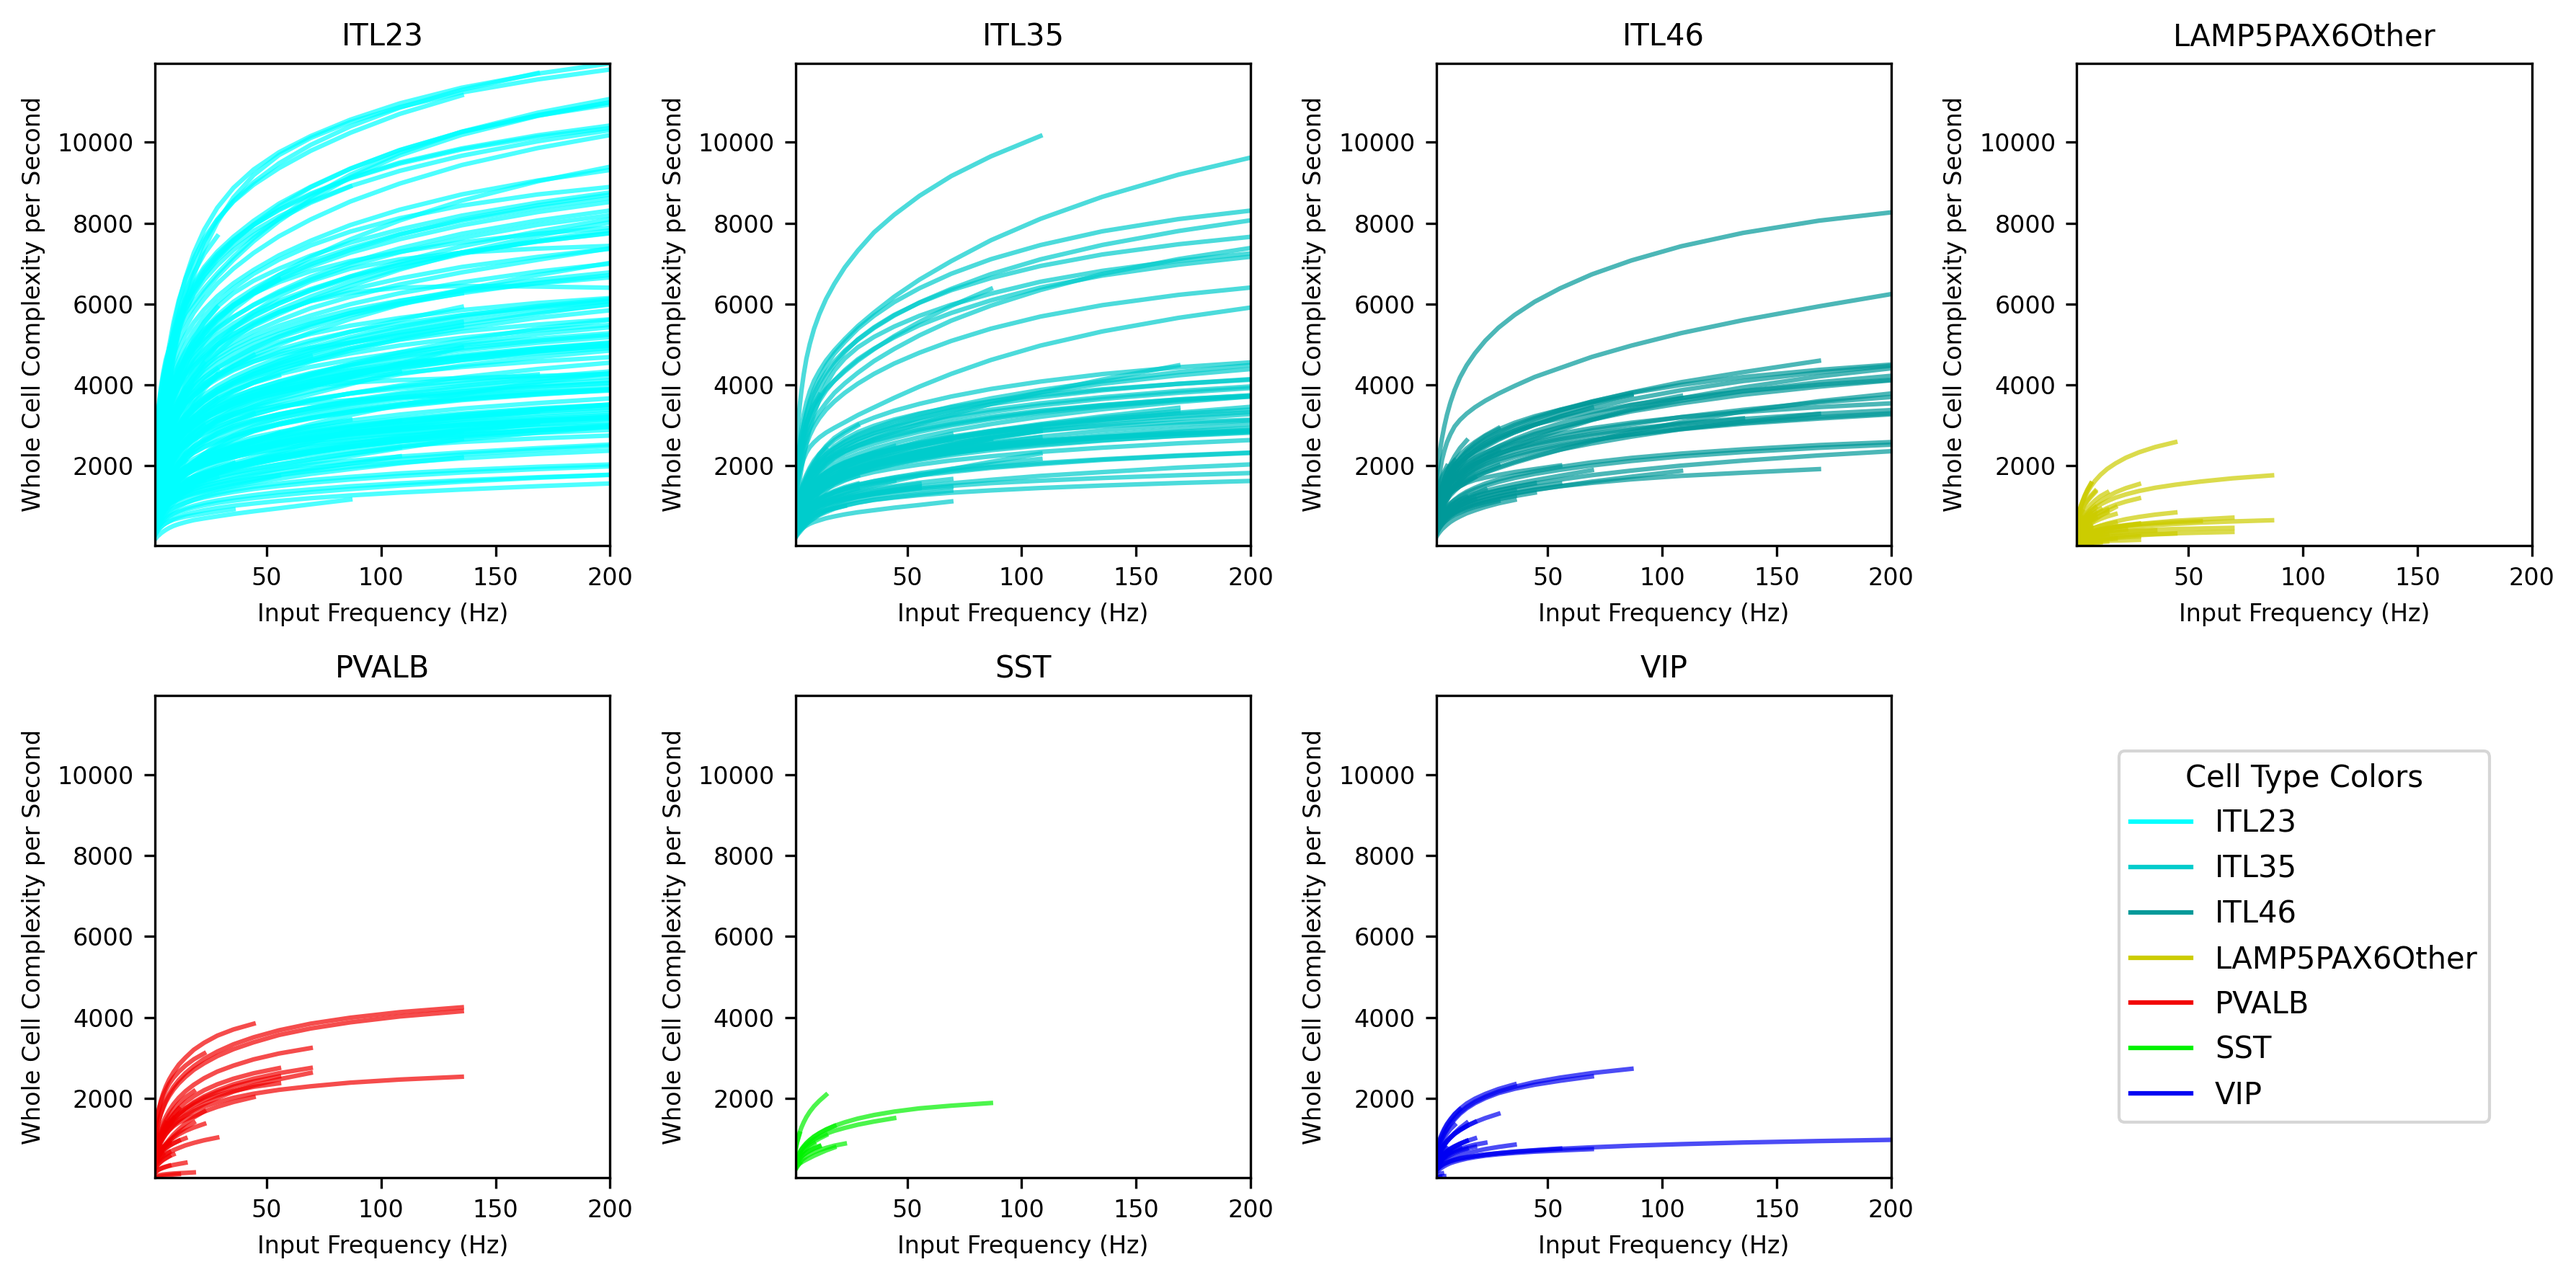
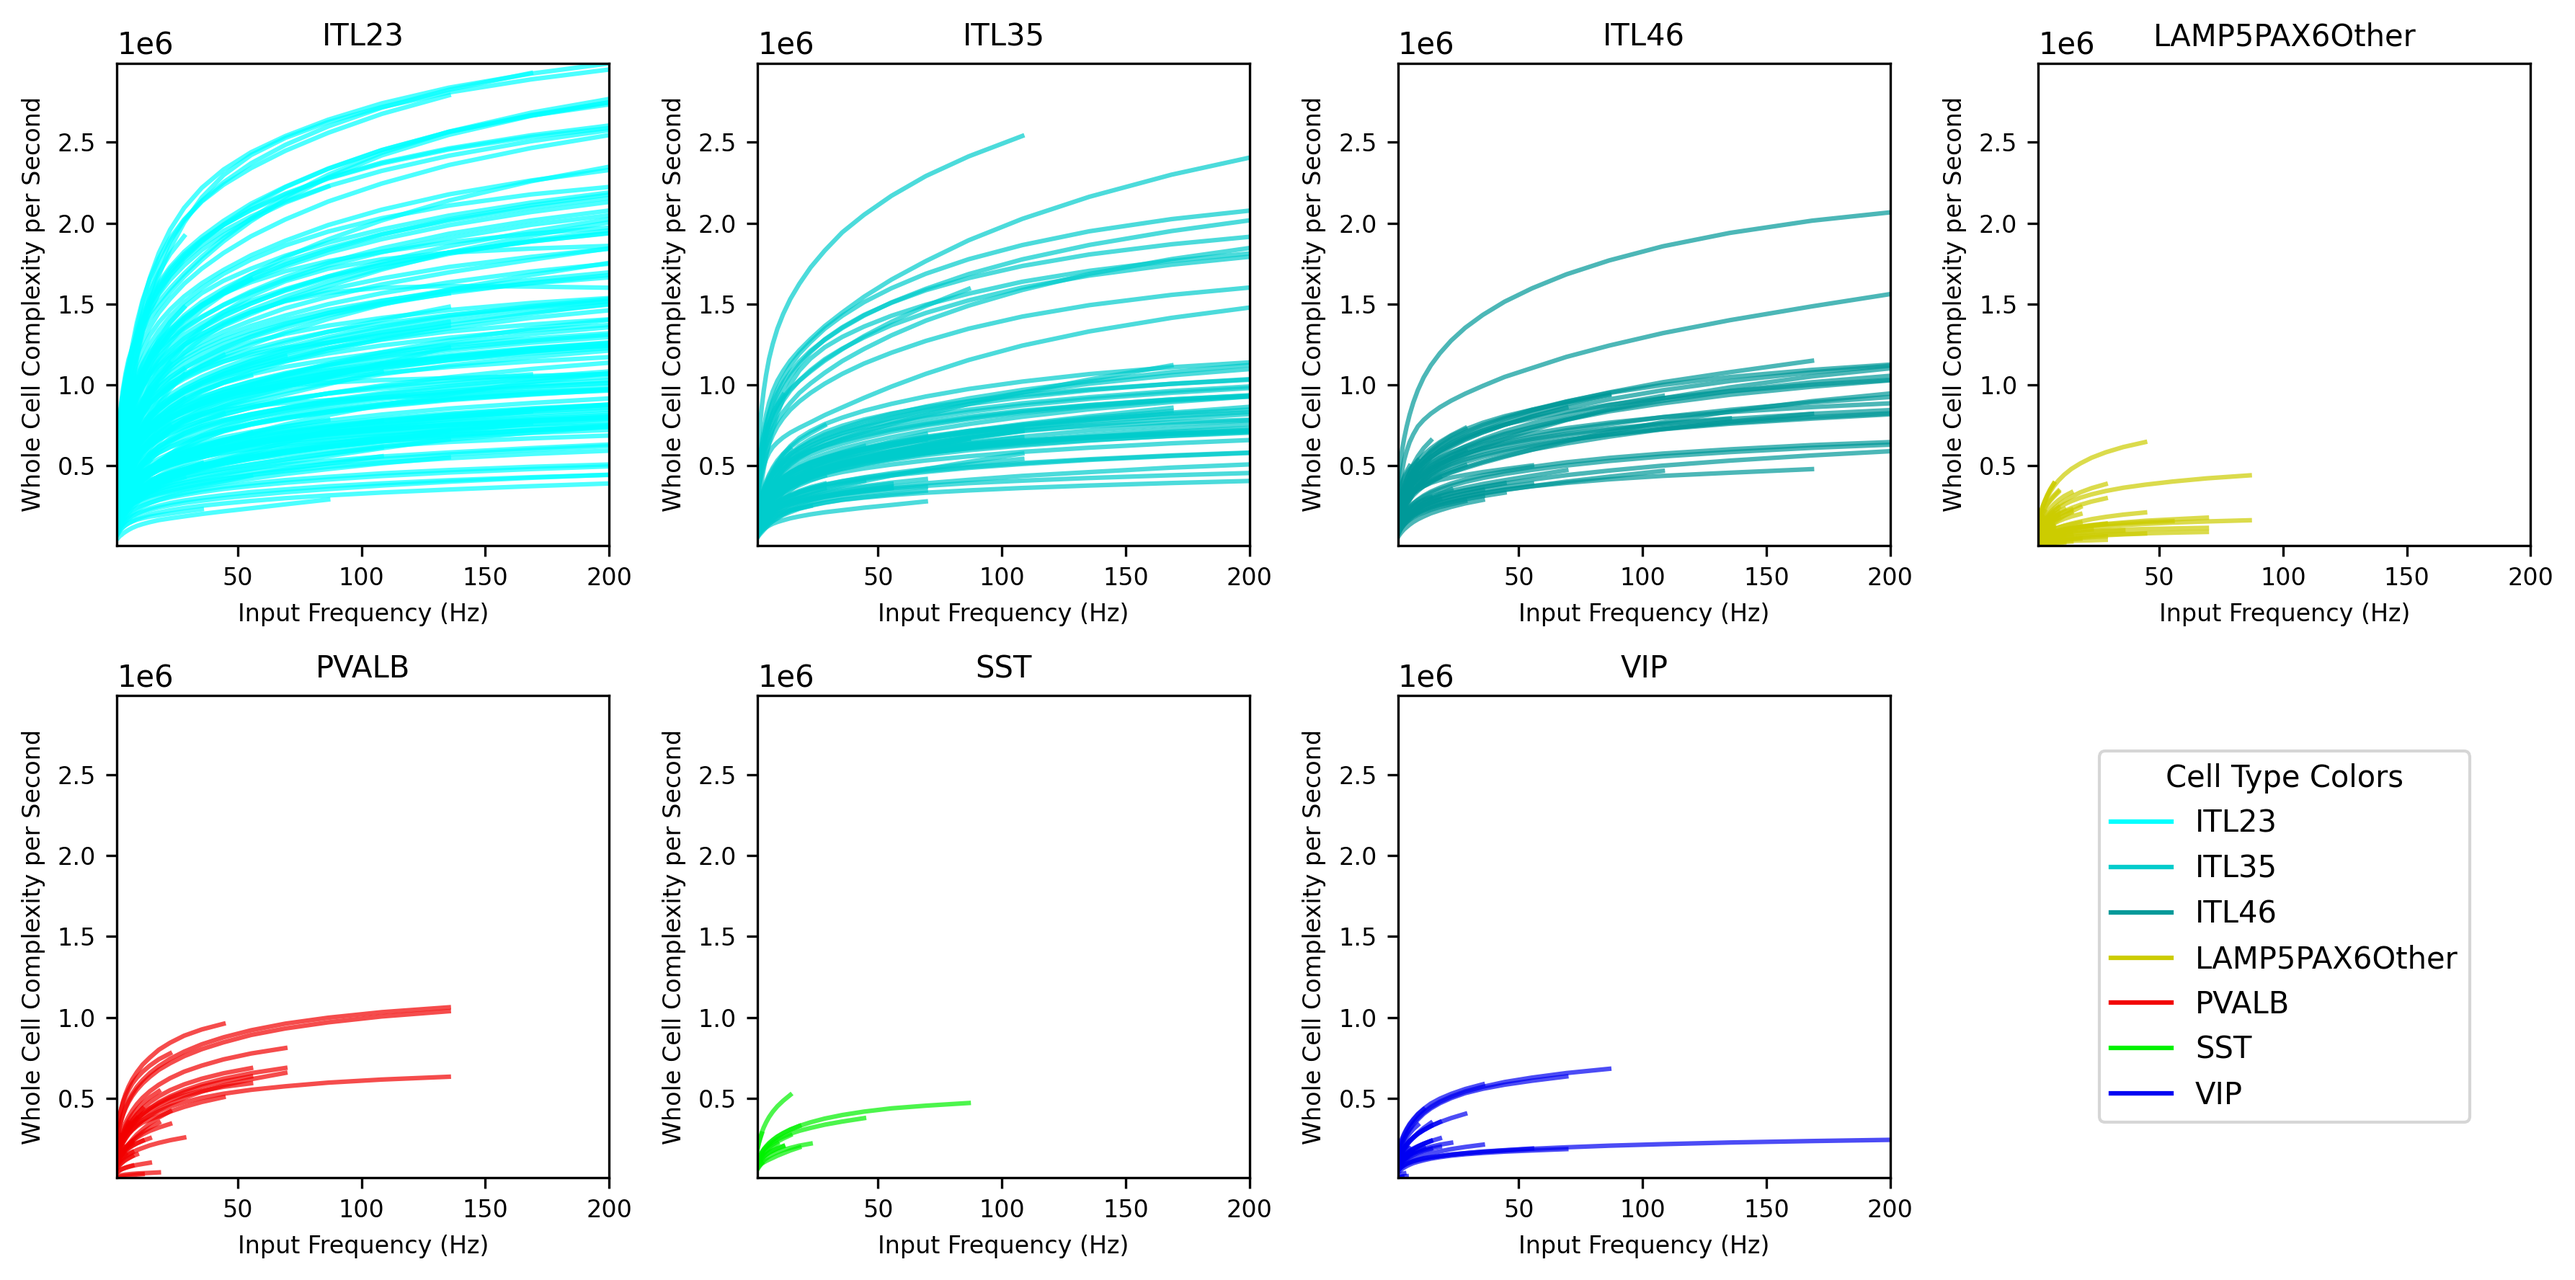
fix unit bug

diff --git a/figure__statistics/complexity_plot_3.py b/figure__statistics/complexity_plot_3.py
@@ -44,7 +44,7 @@ x_values = data.columns[2:].astype(float) / 1000
 # Scalling data only for whole cell complexity
 # 
 if data_name == "Whole Cell Complexity per Second":
-    data.iloc[:, 2:] *= 20
+    data.iloc[:, 2:] *= 5000
 
 
 # Define the data for each cell type
